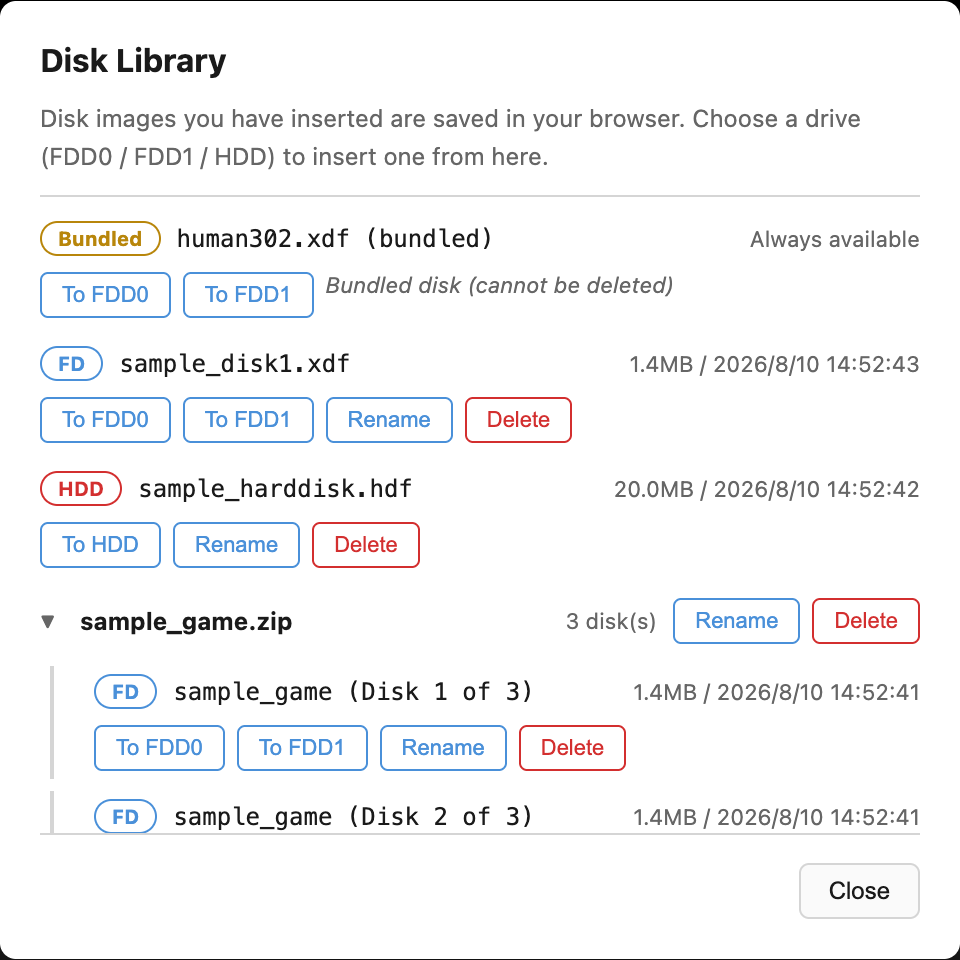
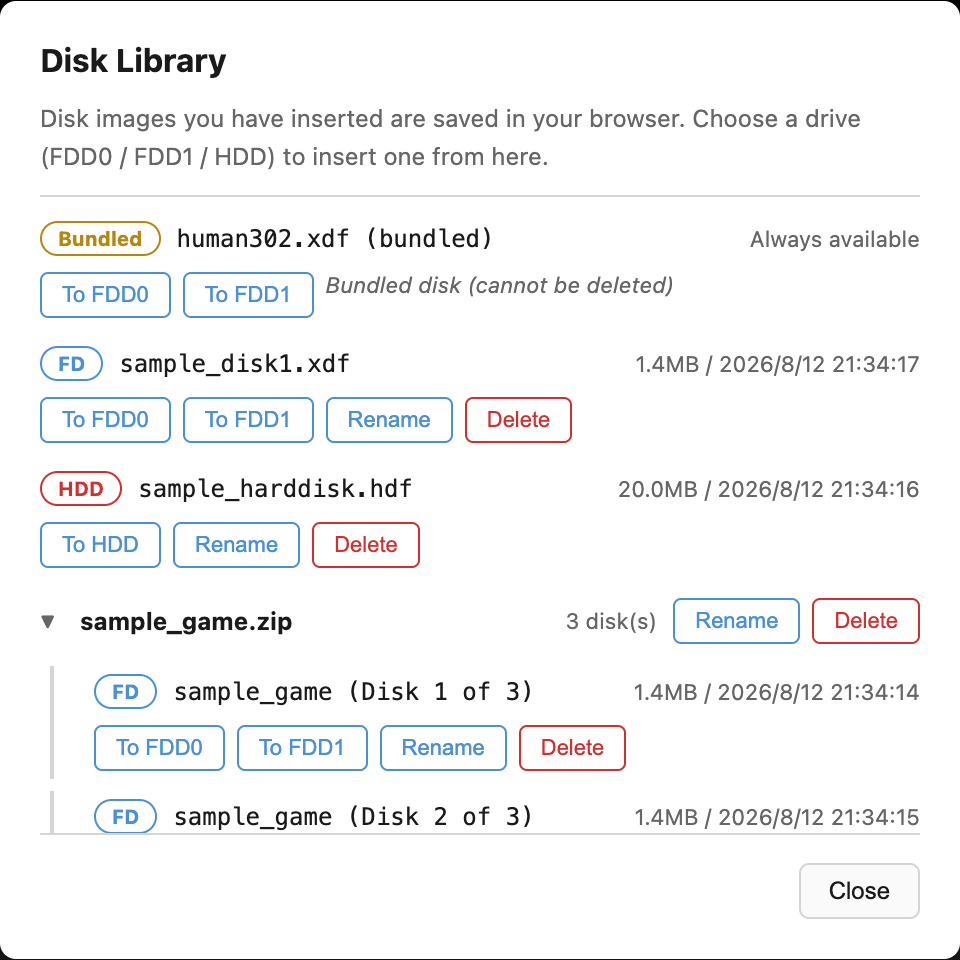
docs: 速度変更ボタンをREADME/ヘルプ/aboutに追記しスクリーンショットを撮り直し
常設ツールバーが4個から5個になったため、README(日英)の「ツールバー」節、
help.htmlのPERMANENT_BUTTONS表、about.htmlの機能紹介に速度変更ボタンを追加した。
上限400%は選べる値であって端末の処理能力次第であること、設定パネルに実測速度が
出ることを明記し、「最大400%出る」とは書いていない。マシン構成のCPU速度
(px68k_cpuspeed、リセット必須)との違いにも各所で触れている。

スクリーンショットは npm run capture-help で撮り直し。ツールバーが写る overview /
menu / keyboard / virtualpad 系と、撮影時の状態が変わった overlay / library が更新
された(toolbarが写らない gamepad / hostkey / vpad-editor / filemanager は同一バイトで
差分なし)。

diff --git a/public/help.html b/public/help.html
@@ -622,7 +622,7 @@
             <h2>ツールバーのボタン一覧</h2>
             <img src="./help/overview.png" alt="プレイヤー全体像。ツールバーのアイコンが並ぶ" />
             <p>
-              常時表示されているのは次の4つだけです。残りはすべて「…」ボタンのメニューに
+              常時表示されているのは次の5つだけです。残りはすべて「…」ボタンのメニューに
               まとまっています。
             </p>
             <table class="btn-table">
@@ -651,7 +651,7 @@
             <h2>Toolbar buttons</h2>
             <img src="./help/overview-en.png" alt="Player overview with the toolbar icons" />
             <p>
-              Only these 4 buttons are always visible. Everything else lives inside the
+              Only these 5 buttons are always visible. Everything else lives inside the
               "…" button's menu.
             </p>
             <table class="btn-table">
@@ -1378,7 +1378,7 @@
         // ツールバーのボタン一覧テーブルを生成する。
         // アイコンのpath dは index.html のツールバーボタン定義と同一。
 
-        // 常設(4個): リセット / フルスクリーン / 仮想キーボード / スクリーンショット。
+        // 常設(5個): リセット / フルスクリーン / 仮想キーボード / スクリーンショット / 速度変更。
         var PERMANENT_BUTTONS = [
           {
             icon: 'M3 12a9 9 0 1 0 3-6.7M3 4v5h5',
@@ -1431,6 +1431,31 @@
             en: 'Screenshot',
             descJa: '現在の画面をPNG画像としてダウンロードします。',
             descEn: 'Downloads the current display as a PNG image.',
+          },
+          {
+            icon: 'M2 6l7 6-7 6z M11 6l7 6-7 6z M18 6l4 6-4 6z',
+            ja: '速度変更',
+            en: 'Speed',
+            descJa:
+              'ON/OFFのトグルボタンです。OFF(既定)は等倍の100%で動作し、ONにすると設定パネルで' +
+              '選んだ倍率で走ります(選択肢は25%/50%/75%/150%/200%/300%/400%、既定200%)。' +
+              'ON中はボタンに現在の倍率がバッジ表示されます。リセット不要でトグル操作の' +
+              'その場から即時に反映され、音声もテープの早送り/スローのようにピッチが変わります' +
+              '(BGMも含めて速度に追従します)。設定は保存されず、起動時・リセット時は必ずOFF' +
+              '(100%)から始まります。実際に出せる速度は端末の処理能力次第で、設定パネルには' +
+              '実測の速度が表示されます。マシン構成の「CPU速度」(実機のクロックを変える設定で' +
+              'リセットが必要)とは別物です。',
+            descEn:
+              'A toggle button. OFF (the default) runs at 100% speed; ON runs at whatever multiplier' +
+              ' is chosen in the settings panel (25% / 50% / 75% / 150% / 200% / 300% / 400%, default' +
+              ' 200%). While ON, the button shows a badge with the current multiplier. The change' +
+              ' takes effect immediately from the toggle itself — no reset needed — and audio pitch' +
+              ' shifts along with it, like a tape running fast or slow (BGM speeds up too). The' +
+              ' setting is not saved, so playback always starts at OFF (100%) on boot and after a' +
+              ' reset. How fast it can actually go depends on your device, and the settings panel' +
+              ' shows the measured speed you\'re actually getting. This is separate from the machine' +
+              ' configuration\'s "CPU speed" setting, which changes the emulated clock and needs a' +
+              ' reset.',
           },
         ];
 

diff --git a/public/about.html b/public/about.html
@@ -677,6 +677,46 @@
           </div>
         </section>
 
+        <!-- 特徴5.95: エミュレーション速度変更 -->
+        <section class="help-card feature-card">
+          <div class="lang-ja">
+            <h2>エミュレーション速度変更</h2>
+            <p>
+              ツールバーの「速度変更」ボタンはON/OFFのトグルです。OFF(既定)は等倍の100%で
+              動作し、ONにすると設定パネルで選んだ倍率(25%/50%/75%/150%/200%/300%/400%、
+              既定200%)で走ります。ON中はボタンに現在の倍率がバッジ表示され、リセット不要で
+              トグル操作のその場から即時に反映されます。音声もテープの早送り/スローのように
+              ピッチが変わり、BGMも含めて速度に追従します。設定は保存されず、起動時・リセット時は
+              必ずOFF(100%)から始まります。
+            </p>
+            <p>
+              実際に出せる速度は端末の処理能力次第です。400%は選べる上限値であって保証される
+              速度ではなく、設定パネルにはその時点の実測速度が表示されるため、頭打ちになって
+              いる場合はそこで分かります。マシン構成の「CPU速度」(実機のクロックを変える設定で
+              リセットが必要)とは別物です。
+            </p>
+          </div>
+          <div class="lang-en">
+            <h2>Emulation speed control</h2>
+            <p>
+              The toolbar's "Speed" button is an ON/OFF toggle. OFF (the default) runs at 100%
+              (normal) speed; ON runs at whatever multiplier is chosen in the settings panel
+              (25% / 50% / 75% / 150% / 200% / 300% / 400%, default 200%). While ON, the button
+              shows a badge with the current multiplier, and the change takes effect immediately
+              from the toggle itself — no reset needed. Audio pitch shifts along with it, like a
+              tape running fast or slow, and BGM speeds up too. The setting is not saved, so
+              playback always starts at OFF (100%) on boot and after a reset.
+            </p>
+            <p>
+              How fast it can actually go depends on your device's processing power. 400% is a
+              selectable ceiling, not a guaranteed speed — the settings panel shows the measured
+              speed you're actually getting, so you can see where it tops out. This is separate
+              from the machine configuration's "CPU speed" setting, which changes the emulated
+              clock and needs a reset.
+            </p>
+          </div>
+        </section>
+
         <!-- 特徴6: AI操作(MCP) -->
         <section class="help-card feature-card">
           <div class="lang-ja">

diff --git a/README.md b/README.md
@@ -69,8 +69,8 @@ Notes on `lib` (for sharing links to multi-disk collections):
 
 ### Toolbar
 
-Four buttons stay directly on the toolbar: Reset, Fullscreen, Virtual
-Keyboard, and Screenshot. Everything else lives behind the "..." (More)
+Five buttons stay directly on the toolbar: Reset, Fullscreen, Virtual
+Keyboard, Screenshot, and Speed. Everything else lives behind the "..." (More)
 button as a two-level menu: Display (4:3 display toggle), Input (mouse
 capture/resync, gamepad settings), Disk (Disk Library, file transfer), and
 State (save/load state) groups, plus Settings, Help, and the language toggle
@@ -202,6 +202,27 @@ The "Screenshot" toolbar button saves the current display as a PNG
 video resolution (it's resized in `handleVideoRefresh()` whenever the mode
 changes — 256x256 / 512x512 / 768x512 etc.), so the saved image is exactly
 the resolution currently being displayed, with no letterboxing to crop.
+
+### Emulation speed
+
+The toolbar's "Speed" button is an ON/OFF toggle. OFF (the default) runs at
+100% (normal) speed; ON runs at whatever multiplier is chosen in the
+settings panel (25% / 50% / 75% / 150% / 200% / 300% / 400%, default 200%).
+While ON, the button shows a badge with the current multiplier. The change
+takes effect immediately from the toggle itself — no reset needed — and
+audio pitch shifts along with it, like a tape running fast or slow (BGM
+speeds up too). The setting is not saved, so playback always starts at OFF
+(100%) on boot and after a reset.
+
+How fast it can actually go depends on your device's processing power. 400%
+is a selectable ceiling, not a guaranteed speed — the settings panel shows
+the measured speed you're actually getting, so you can see where it tops
+out.
+
+This is separate from the machine configuration's "CPU speed"
+(`px68k_cpuspeed`, 10-100MHz) setting: that one changes the emulated
+hardware's actual clock and needs a reset, while this one just changes the
+host's execution pace and applies immediately.
 
 ### Virtual keyboard
 
